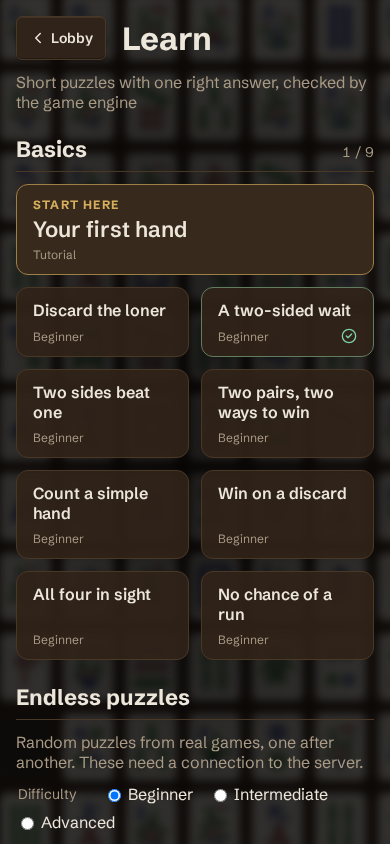
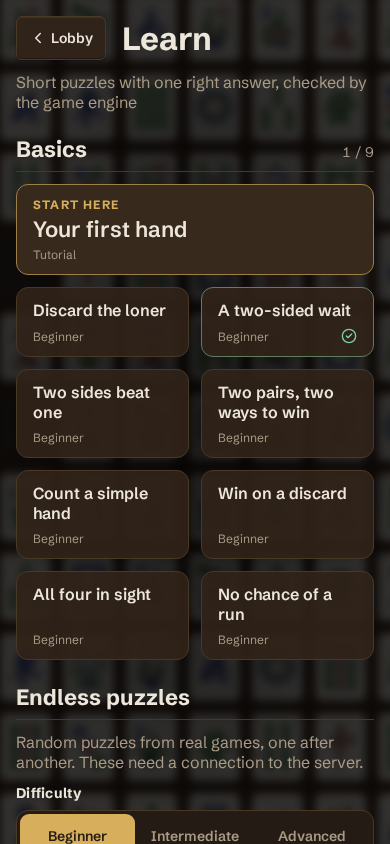
feat(web): endless band picker as a segmented control

diff --git a/web/src/routes/learn/+page.svelte b/web/src/routes/learn/+page.svelte
@@ -14,6 +14,7 @@
 	} from '$lib/ui/settings-storage';
 	import { claimMuralVisible } from '$lib/ui/mural-visibility.svelte';
 	import BackButton from '$lib/ui/BackButton.svelte';
+	import SegmentedControl from '$lib/ui/SegmentedControl.svelte';
 
 	claimMuralVisible();
 
@@ -111,22 +112,15 @@
 			<h2 id="endless-title">{m.learn_endlessHeading()}</h2>
 		</header>
 		<p class="endless-intro">{m.learn_endlessIntro()}</p>
-		<fieldset class="band-picker">
-			<legend>{m.learn_endlessBandLabel()}</legend>
-			{#each BANDS as option (option)}
-				<label class="band-option">
-					<input
-						type="radio"
-						name="endless-band"
-						value={option}
-						checked={band === option}
-						data-testid="endless-band-{option}"
-						onchange={() => pickBand(option)}
-					/>
-					<span>{BAND_LABEL[option]()}</span>
-				</label>
-			{/each}
-		</fieldset>
+		<div class="band-picker" data-testid="endless-band">
+			<SegmentedControl
+				legend={m.learn_endlessBandLabel()}
+				name="endless-band"
+				options={BANDS.map((option) => ({ value: option, label: BAND_LABEL[option]() }))}
+				value={band}
+				onChange={pickBand}
+			/>
+		</div>
 		<ul class="lessons">
 			{#each PUZZLE_KINDS as kind (kind)}
 				{@const best = endlessScore(endless, kind).best}
@@ -306,26 +300,6 @@
 	}
 
 	.band-picker {
-		display: flex;
-		flex-wrap: wrap;
-		align-items: center;
-		gap: var(--space-2) var(--space-4);
-		margin: 0;
-		padding: 0;
-		border: 0;
-
-		legend {
-			float: left;
-			margin-right: var(--space-2);
-			color: var(--color-text-muted);
-			font-size: var(--font-size-sm);
-		}
-	}
-
-	.band-option {
-		display: inline-flex;
-		align-items: center;
-		gap: var(--space-1);
-		cursor: pointer;
+		width: min(24rem, 100%);
 	}
 </style>

diff --git a/web/src/routes/learn/endless/endless.e2e.ts b/web/src/routes/learn/endless/endless.e2e.ts
@@ -40,10 +40,11 @@ test('the index links each kind to endless mode at the picked band', async ({ pa
 	await page.goto('/learn');
 	const card = page.getByTestId('endless-card-best_discard');
 	await expect(card).toHaveAttribute('href', '/learn/endless?kind=best_discard&band=beginner');
-	await page.getByTestId('endless-band-advanced').check();
+	const advanced = page.getByTestId('endless-band').getByRole('radio', { name: 'Advanced' });
+	await advanced.check();
 	await expect(card).toHaveAttribute('href', '/learn/endless?kind=best_discard&band=advanced');
 	await page.reload();
-	await expect(page.getByTestId('endless-band-advanced')).toBeChecked();
+	await expect(advanced).toBeChecked();
 });
 
 test('answer right, the streak counts it, and the next puzzle loads without repeating', async ({

diff --git a/docs/frontend.md b/docs/frontend.md
@@ -1032,7 +1032,7 @@ Endless mode (below) is the one part that needs the API.
   input.
 
 **Endless.** An "Endless puzzles" section right after basics on `/learn` has a band picker
-(radios, saved to `mahjong:learnEndless:v1`, §6) and one card per kind, each linking to
+(`SegmentedControl`, as in Settings, saved to `mahjong:learnEndless:v1`, §6) and one card per kind, each linking to
 `/learn/endless?kind=…&band=…` with its best streak. The route fetches `GET /lessons/random`
 ([protocol.md §10](protocol.md)), whose body is a generated `Lesson`, and plays it through the
 same `routes/learn/_components/PuzzlePage.svelte` as `/learn/[id]`, titled by its theme
